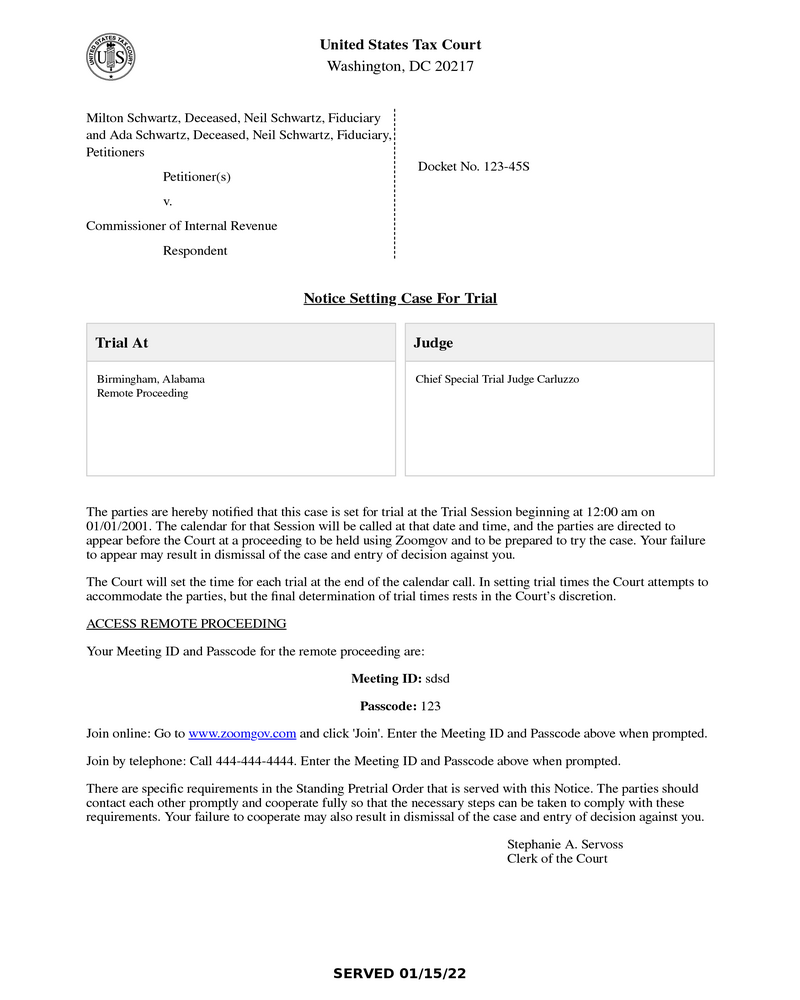
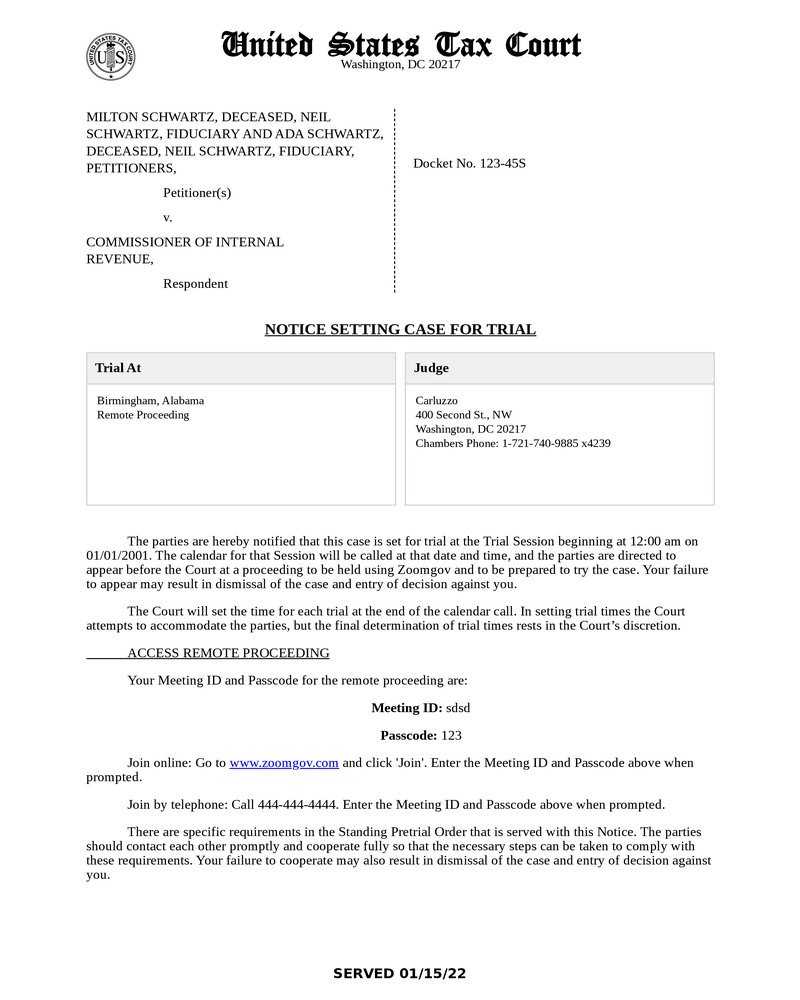
10076: standardize formatting rules

diff --git a/shared/src/business/utilities/pdfGenerator/documentTemplates/NoticeOfTrialIssued.tsx b/shared/src/business/utilities/pdfGenerator/documentTemplates/NoticeOfTrialIssued.tsx
@@ -1,7 +1,9 @@
 import { FormattedTrialInfoType } from '@web-api/business/useCases/trialSessions/generateNoticeOfTrialIssuedInteractor';
+import { DocumentParagraphIndent } from '../components/DocumentParagraphIndent';
 import { ClerkOfTheCourtSignature } from '../components/ClerkOfTheCourtSignature';
-import { DocketHeader } from '../components/DocketHeader';
-import { PrimaryHeader } from '../components/PrimaryHeader';
+import { NoticeSettingCaseForTrialDocketHeader } from '../components/NoticeSettingCaseForTrialDocketHeader';
+import { OrderPrimaryHeader } from '../components/OrderPrimaryHeader';
+import { TrialNoticeJudgeInfoBox } from '../components/TrialNoticeJudgeInfoBox';
 import React from 'react';
 
 export const NoticeOfTrialIssued = ({
@@ -21,12 +23,11 @@ export const NoticeOfTrialIssued = ({
 }) => {
   return (
     <div id="notice-of-trial-pdf">
-      <PrimaryHeader />
-      <DocketHeader
+      <OrderPrimaryHeader />
+      <NoticeSettingCaseForTrialDocketHeader
         caseCaptionExtension={caseCaptionExtension}
         caseTitle={caseTitle}
         docketNumberWithSuffix={docketNumberWithSuffix}
-        documentTitle="Notice Setting Case For Trial"
       />
       <div>
         <div className="info-box info-box-trial" id="trial-info">
@@ -37,15 +38,16 @@ export const NoticeOfTrialIssued = ({
           </div>
         </div>
 
-        <div className="info-box info-box-judge" id="judge-info">
-          <div className="info-box-header">Judge</div>
-          <div className="info-box-content">{trialInfo.formattedJudge}</div>
-        </div>
+        <TrialNoticeJudgeInfoBox
+          chambersPhoneNumber={trialInfo.chambersPhoneNumber}
+          judgeLastName={trialInfo.formattedJudge || 'Not assigned'}
+        />
         <div className="clear" />
       </div>
 
       <div id="notice-body">
         <p>
+          <DocumentParagraphIndent />
           The parties are hereby notified that this case is set for trial at the
           Trial Session beginning at {trialInfo.formattedStartTime} on{' '}
           {trialInfo.formattedStartDate}. The calendar for that Session will be
@@ -55,22 +57,32 @@ export const NoticeOfTrialIssued = ({
           dismissal of the case and entry of decision against you.
         </p>
         <p>
+          <DocumentParagraphIndent />
           The Court will set the time for each trial at the end of the calendar
           call. In setting trial times the Court attempts to accommodate the
           parties, but the final determination of trial times rests in the
           Court’s discretion.
         </p>
 
-        <p className="text-underline">ACCESS REMOTE PROCEEDING</p>
-        <p>Your Meeting ID and Passcode for the remote proceeding are:</p>
+        <p>
+          <DocumentParagraphIndent />
+          <span className="text-underline">ACCESS REMOTE PROCEEDING</span>
+        </p>
+        <p>
+          <DocumentParagraphIndent />
+          Your Meeting ID and Passcode for the remote proceeding are:
+        </p>
         <p className="text-center">
+          <DocumentParagraphIndent />
           <b>Meeting ID:</b> {trialInfo.meetingId}
         </p>
         <p className="text-center">
+          <DocumentParagraphIndent />
           <b>Passcode:</b> {trialInfo.password}
         </p>
 
         <p>
+          <DocumentParagraphIndent />
           Join online: Go to{' '}
           <a href="https://www.zoomgov.com" rel="noreferrer" target="_blank">
             www.zoomgov.com
@@ -80,11 +92,13 @@ export const NoticeOfTrialIssued = ({
         </p>
 
         <p>
+          <DocumentParagraphIndent />
           Join by telephone: Call {trialInfo.joinPhoneNumber}. Enter the Meeting
           ID and Passcode above when prompted.
         </p>
 
         <p>
+          <DocumentParagraphIndent />
           There are specific requirements in the Standing Pretrial Order that is
           served with this Notice. The parties should contact each other
           promptly and cooperate fully so that the necessary steps can be taken
@@ -92,10 +106,12 @@ export const NoticeOfTrialIssued = ({
           result in dismissal of the case and entry of decision against you.
         </p>
 
-        <ClerkOfTheCourtSignature
-          nameOfClerk={nameOfClerk}
-          titleOfClerk={titleOfClerk}
-        />
+        <div id="notice-clerk-signature">
+          <ClerkOfTheCourtSignature
+            nameOfClerk={nameOfClerk}
+            titleOfClerk={titleOfClerk}
+          />
+        </div>
       </div>
     </div>
   );

diff --git a/shared/src/business/utilities/pdfGenerator/documentTemplates/NoticeOfTrialIssuedInPerson.tsx b/shared/src/business/utilities/pdfGenerator/documentTemplates/NoticeOfTrialIssuedInPerson.tsx
@@ -1,7 +1,9 @@
-import { ClerkOfTheCourtSignature } from '../components/ClerkOfTheCourtSignature';
-import { DocketHeader } from '../components/DocketHeader';
 import { FormattedTrialInfoType } from '@web-api/business/useCases/trialSessions/generateNoticeOfTrialIssuedInteractor';
-import { PrimaryHeader } from '../components/PrimaryHeader';
+import { DocumentParagraphIndent } from '../components/DocumentParagraphIndent';
+import { ClerkOfTheCourtSignature } from '../components/ClerkOfTheCourtSignature';
+import { NoticeSettingCaseForTrialDocketHeader } from '../components/NoticeSettingCaseForTrialDocketHeader';
+import { OrderPrimaryHeader } from '../components/OrderPrimaryHeader';
+import { TrialNoticeJudgeInfoBox } from '../components/TrialNoticeJudgeInfoBox';
 import React from 'react';
 
 export const NoticeOfTrialIssuedInPerson = ({
@@ -21,12 +23,11 @@ export const NoticeOfTrialIssuedInPerson = ({
 }) => {
   return (
     <div id="notice-of-trial-pdf">
-      <PrimaryHeader />
-      <DocketHeader
+      <OrderPrimaryHeader />
+      <NoticeSettingCaseForTrialDocketHeader
         caseCaptionExtension={caseCaptionExtension}
         caseTitle={caseTitle}
         docketNumberWithSuffix={docketNumberWithSuffix}
-        documentTitle={'Notice Setting Case For Trial'}
       />
       <div>
         <div className="info-box info-box-trial" id="trial-info">
@@ -41,15 +42,16 @@ export const NoticeOfTrialIssuedInPerson = ({
           </div>
         </div>
 
-        <div className="info-box info-box-judge" id="judge-info">
-          <div className="info-box-header">Judge</div>
-          <div className="info-box-content">{trialInfo.formattedJudge}</div>
-        </div>
+        <TrialNoticeJudgeInfoBox
+          chambersPhoneNumber={trialInfo.chambersPhoneNumber}
+          judgeLastName={trialInfo.formattedJudge || 'Not assigned'}
+        />
         <div className="clear" />
       </div>
 
       <div id="notice-body">
-        <p className="indent-paragraph">
+        <p>
+          <DocumentParagraphIndent />
           The parties are hereby notified that this case is set for trial at the
           Trial Session beginning at{' '}
           <b>
@@ -63,28 +65,33 @@ export const NoticeOfTrialIssuedInPerson = ({
             of decision against you.
           </b>
         </p>
-        <p className="indent-paragraph">
+        <p>
+          <DocumentParagraphIndent />
           The Court will set the time for each trial at the end of the calendar
           call (unless the parties request in advance a specific date and time
           for trial and the Court grants the request). In setting trial times
           the Court attempts to accommodate the parties, but the final
           determination of trial times rests in the Court’s discretion.
         </p>
-        <p className="indent-paragraph">
+        <p>
+          <DocumentParagraphIndent />
           Your attention is called to the requirements set out in the Standing
           Pretrial Order that is served with this notice.
         </p>
         <p>
+          <DocumentParagraphIndent />
           <b>IMPORTANT:</b> Your case is currently set for an in-person
           proceeding. In the event that the Court is unable to hold an in-person
           proceeding and needs to proceed remotely, you will be notified and be
           given detailed instructions for accessing your remote proceeding.
         </p>
 
-        <ClerkOfTheCourtSignature
-          nameOfClerk={nameOfClerk}
-          titleOfClerk={titleOfClerk}
-        />
+        <div id="notice-clerk-signature">
+          <ClerkOfTheCourtSignature
+            nameOfClerk={nameOfClerk}
+            titleOfClerk={titleOfClerk}
+          />
+        </div>
       </div>
     </div>
   );

diff --git a/shared/src/business/utilities/pdfGenerator/components/NoticeSettingCaseForTrialDocketHeader.tsx b/shared/src/business/utilities/pdfGenerator/components/NoticeSettingCaseForTrialDocketHeader.tsx
@@ -1,0 +1,32 @@
+import React from 'react';
+
+export const NoticeSettingCaseForTrialDocketHeader = ({
+  caseCaptionExtension,
+  caseTitle,
+  docketNumberWithSuffix,
+}: {
+  caseCaptionExtension: string;
+  caseTitle: string;
+  docketNumberWithSuffix: string;
+}) => {
+  return (
+    <div className="order-docket-header">
+      <div id="caption">
+        <div id="caption-title">{caseTitle.toUpperCase()},</div>
+        <div id="caption-extension">{caseCaptionExtension}</div>
+        <div id="caption-v">v.</div>
+        <div id="caption-commissioner">
+          COMMISSIONER OF INTERNAL
+          <br />
+          REVENUE,
+        </div>
+        <div id="caption-respondent">Respondent</div>
+      </div>
+      <div id="docket-number">Docket No. {docketNumberWithSuffix}</div>
+      <div className="clear"></div>
+      <h3 className="document-title underline">
+        NOTICE SETTING CASE FOR TRIAL
+      </h3>
+    </div>
+  );
+};

diff --git a/shared/src/business/utilities/documentGenerators/noticeOfTrialIssuedInPerson.test.ts b/shared/src/business/utilities/documentGenerators/noticeOfTrialIssuedInPerson.test.ts
@@ -26,7 +26,8 @@ describe('noticeOfTrialIssuedInPerson', () => {
             address1: '123 Candy Cane Lane',
             address2: '22222',
             city: 'troutville',
-            formattedJudge: 'Chief Special Trial Judge Carluzzo',
+            formattedJudge: 'Carluzzo',
+            chambersPhoneNumber: '1-721-740-9885 x4239',
             formattedStartDate: '01/01/2001',
             formattedStartTime: '12:00 am',
             postalCode: 'Boise, Idaho',
@@ -43,7 +44,7 @@ describe('noticeOfTrialIssuedInPerson', () => {
             termYear: '2001',
             trialSessionId: '111-111-112',
             paperServicePdfs: [],
-            hasNottBeenServed: false
+            hasNottBeenServed: false,
           },
         },
       }),

diff --git a/web-api/src/business/useCases/trialSessions/generateNoticeOfTrialIssuedInteractor.ts b/web-api/src/business/useCases/trialSessions/generateNoticeOfTrialIssuedInteractor.ts
@@ -56,7 +56,7 @@ export const generateNoticeOfTrialIssuedInteractor = async (
   );
   const formattedStartTime = formatDateString(trialStartTimeIso, FORMATS.TIME);
 
-  const judgeWithTitle = await getJudgeWithTitle({
+  await getJudgeWithTitle({
     judgeUserName: trialSession.judge?.name,
   });
 
@@ -72,7 +72,7 @@ export const generateNoticeOfTrialIssuedInteractor = async (
     title: string;
   };
   const trialInfo: FormattedTrialInfoType = {
-    formattedJudge: judgeWithTitle,
+    formattedJudge: trialSession.judge?.name || 'Not assigned',
     formattedStartDate,
     formattedStartTime,
     ...trialSession,

diff --git a/shared/src/business/utilities/pdfGenerator/components/TrialNoticeJudgeInfoBox.tsx b/shared/src/business/utilities/pdfGenerator/components/TrialNoticeJudgeInfoBox.tsx
@@ -1,0 +1,21 @@
+import React from 'react';
+
+export const TrialNoticeJudgeInfoBox = ({
+  chambersPhoneNumber,
+  judgeLastName,
+}: {
+  judgeLastName: string;
+  chambersPhoneNumber?: string;
+}) => {
+  return (
+    <div className="info-box info-box-judge" id="judge-info">
+      <div className="info-box-header">Judge</div>
+      <div className="info-box-content">
+        <div>{judgeLastName}</div>
+        <div>400 Second St., NW</div>
+        <div>Washington, DC 20217</div>
+        <div>Chambers Phone: {chambersPhoneNumber}</div>
+      </div>
+    </div>
+  );
+};

diff --git a/shared/src/business/utilities/htmlGenerator/documents/notice-of-trial-issued.scss b/shared/src/business/utilities/htmlGenerator/documents/notice-of-trial-issued.scss
@@ -1,4 +1,7 @@
 #notice-of-trial-pdf {
+  font-family: 'Times New Roman', times, serif;
+  font-size: 14px;
+
   .notice-of-trial-title {
     margin-bottom: 0;
   }
@@ -12,11 +15,19 @@
     line-height: 15px;
   }
 
-  #notice-body > p {
-    margin-top: 0;
+  #notice-body {
+    > p {
+      margin-top: 0;
+    }
+
+    #notice-clerk-signature p {
+      width: auto;
+      margin-top: 0;
+      margin-right: 10px;
+    }
   }
 
-  #docket-header {
+  .order-docket-header {
     .document-title {
       margin-bottom: 0;
     }

diff --git a/shared/src/business/utilities/documentGenerators/noticeOfTrialIssued.test.ts b/shared/src/business/utilities/documentGenerators/noticeOfTrialIssued.test.ts
@@ -18,7 +18,7 @@ describe('documentGenerators', () => {
           nameOfClerk: 'Stephanie A. Servoss',
           titleOfClerk: 'Clerk of the Court',
           trialInfo: {
-            formattedJudge: 'Chief Special Trial Judge Carluzzo',
+            formattedJudge: 'Carluzzo',
             formattedStartDate: '01/01/2001',
             formattedStartTime: '12:00 am',
             joinPhoneNumber: '444-444-4444',

diff --git a/shared/src/business/entities/EntityConstants.ts b/shared/src/business/entities/EntityConstants.ts
@@ -23,6 +23,9 @@ export const STATE_KEYS = {
   CASE_LIST_TABLE_SORT: 'CASE_LIST_TABLE_SORT',
 } as const;
 
+// Three em spaces — equivalent to '&emsp;&emsp;&emsp;' and works in both JSX and HTML strings.
+export const INDENT = '\u2003\u2003\u2003';
+
 export const DEBOUNCE_TIME_MILLISECONDS = 500;
 
 // if repeatedly using the same rules to validate how an input should be formatted, capture it here.

diff --git a/shared/src/business/utilities/pdfGenerator/components/DocumentParagraphIndent.tsx b/shared/src/business/utilities/pdfGenerator/components/DocumentParagraphIndent.tsx
@@ -1,0 +1,4 @@
+import { INDENT } from '@shared/business/entities/EntityConstants';
+import React from 'react';
+
+export const DocumentParagraphIndent = () => <>{INDENT}</>;

diff --git a/shared/src/business/utilities/htmlGenerator/utils.scss b/shared/src/business/utilities/htmlGenerator/utils.scss
@@ -150,7 +150,7 @@ ol {
 }
 
 #stamp-signature {
-  font-family: 'Times New Roman', Times, serif;
+  font-family: 'Times New Roman', times, serif;
 }
 
 #stamp-text {
